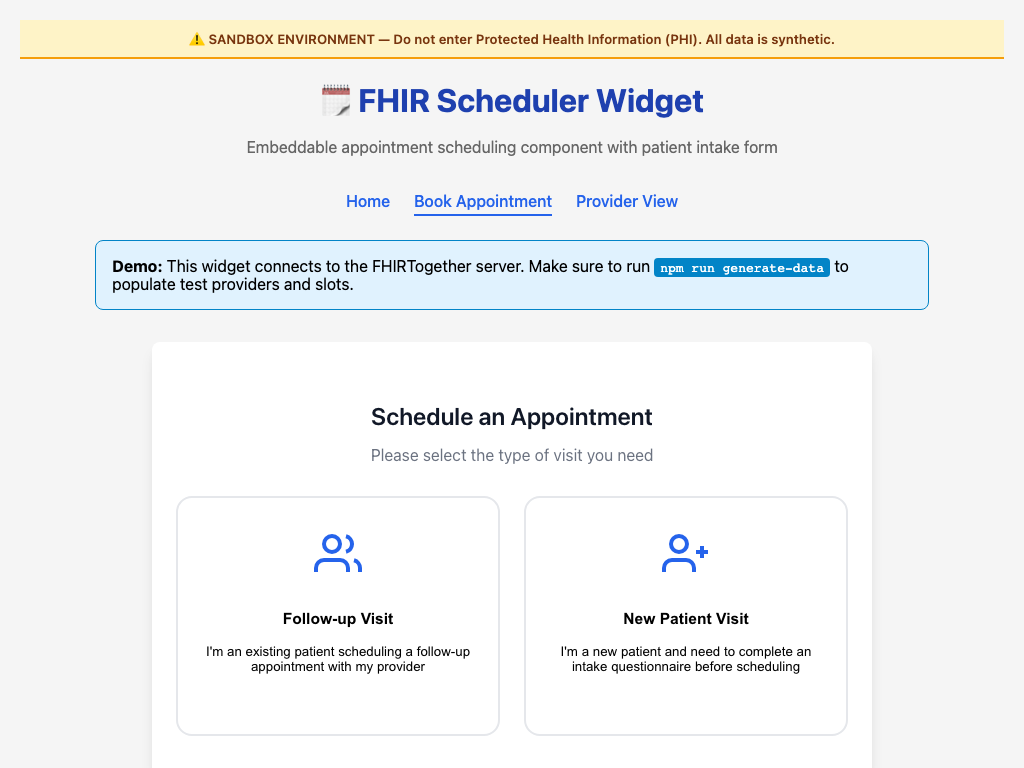
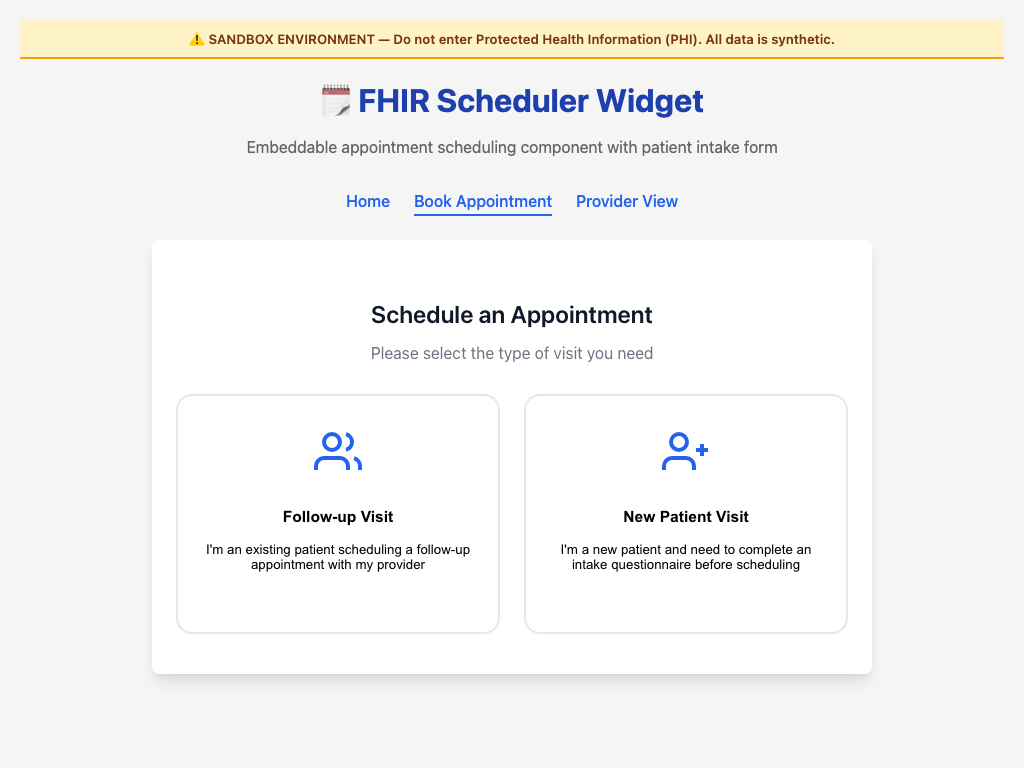
docs: rewrite welcome page and add architecture diagram

diff --git a/public/index.html b/public/index.html
@@ -164,6 +164,30 @@
       font-size: 0.82rem;
       font-weight: 600;
     }
+
+    .welcome-body-text {
+      font-size: 0.92rem;
+      color: var(--mieweb-muted-foreground);
+    }
+
+    .welcome-link {
+      color: var(--mieweb-primary-600);
+    }
+
+    .welcome-code-link {
+      color: inherit;
+      text-decoration: none;
+    }
+
+    .welcome-arch-img {
+      max-width: 100%;
+      height: auto;
+      border-radius: 8px;
+    }
+
+    .welcome-endpoints + .welcome-body-text {
+      margin-top: 0.75rem;
+    }
   </style>
 </head>
 <body>
@@ -200,28 +224,67 @@
       </a>
     </nav>
 
-    <section class="welcome-section" aria-label="Available FHIR endpoints">
-      <h3>FHIR Endpoints</h3>
+    <section class="welcome-section" aria-label="Why FHIRTogether">
+      <h3>Why FHIRTogether?</h3>
+      <p class="welcome-body-text">
+        Healthcare scheduling shouldn&rsquo;t be this hard. Providers, resources, and patients
+        deserve frictionless coordination &mdash; yet most systems still rely on phone calls, fax
+        machines, and proprietary interfaces that don&rsquo;t talk to each other.
+      </p>
+      <p class="welcome-body-text">
+        At <a href="https://bluehive.com" class="welcome-link">BlueHive</a>, our mission is to
+        remove friction from healthcare collaboration. FHIRTogether is our open-source answer to the
+        scheduling interoperability gap: a gateway that speaks both legacy HL7v2 and modern FHIR R4
+        so the right patient reaches the right provider at the right time.
+      </p>
+      <p class="welcome-body-text">
+        Privacy is baked into the architecture. FHIRTogether follows a <strong>trap-door model</strong>
+        for patient data: PHI enters via booking but is <strong>never echoed back</strong> in API
+        responses, provider views, or confirmation screens. Data is stored only long enough to relay
+        to the receiving system &mdash; minimizing the HIPAA blast radius and ensuring FHIRTogether
+        never becomes a system of record for protected health information.
+      </p>
+    </section>
+
+    <section class="welcome-section" aria-label="Architecture overview" style="text-align:center;">
+      <img src="/public/images/architecture.png"
+           alt="FHIRTogether architecture — EHR systems behind the firewall connect through the FHIRTogether Synapse Gateway to the scheduling broker and consumer apps outside the firewall"
+           class="welcome-arch-img" />
+    </section>
+
+    <section class="welcome-section" aria-label="Bridging HL7v2 and FHIR">
+      <h3>Bridging HL7v2 &amp; FHIR Scheduling</h3>
+      <p class="welcome-body-text">
+        If you&rsquo;ve worked with HL7v2, you know <strong>SIU messages</strong> (S12 book, S13
+        reschedule, S15 cancel) handle <em>appointments</em> &mdash; committed time blocks. But
+        HL7v2 has <strong>no standard for publishing availability</strong>. Schedules and open slots
+        are managed outside the wire protocol, buried in each EHR&rsquo;s proprietary configuration.
+      </p>
+      <p class="welcome-body-text">
+        FHIR R4 fills that gap with three resources that model the full scheduling lifecycle:
+      </p>
       <div class="welcome-endpoints">
-        <code>GET /Schedule</code>  <span>Provider schedule &amp; availability management</span>
-        <code>GET /Slot</code>      <span>Time-slot availability queries</span>
-        <code>GET /Appointment</code> <span>Appointment booking &amp; management</span>
-        <code>POST /hl7/siu</code>  <span>HL7v2 SIU message ingestion</span>
-        <code>GET /Directory</code> <span>Public provider directory</span>
-        <code>GET /System</code>    <span>System registration &amp; management</span>
-        <code>POST /Import</code>   <span>Bulk FHIR resource import</span>
-        <code>GET /health</code>    <span>Server health check</span>
+        <code><a href="/docs#/tag/Schedule" class="welcome-code-link">Schedule</a></code> <span>Defines <em>availability</em> for a resource (provider, room, device) &mdash; the piece HL7v2 never had</span>
+        <code><a href="/docs#/tag/Slot" class="welcome-code-link">Slot</a></code>     <span>Individual bookable time windows within a Schedule &mdash; <code>free</code> or <code>busy</code></span>
+        <code><a href="/docs#/tag/Appointment" class="welcome-code-link">Appointment</a></code> <span>A committed booking that consumes a Slot &mdash; the FHIR equivalent of an SIU^S12</span>
       </div>
+      <p class="welcome-body-text">
+        FHIRTogether translates between these worlds: inbound HL7v2 SIU messages become FHIR
+        Appointments, while Schedules and Slots are published via the
+        <a href="https://github.com/smart-on-fhir/smart-scheduling-links/blob/master/specification.md"
+           class="welcome-link">SMART Scheduling Links</a>
+        <code>$bulk-publish</code> endpoint for broad discovery.
+      </p>
     </section>
 
     <section class="welcome-section" aria-label="About this project">
       <h3>About</h3>
-      <p style="font-size:0.92rem; color:var(--mieweb-muted-foreground);">
-        FHIRTogether bridges legacy HL7v2 EHR systems and modern FHIR R4 clients,
-        providing a pluggable scheduling gateway with SQLite-backed storage.
-        It supports Schedule, Slot, and Appointment resources along with HL7v2 SIU
-        message translation &mdash; making it easy to integrate scheduling into any
-        healthcare workflow.
+      <p class="welcome-body-text">
+        FHIRTogether is a FHIR-compliant scheduling gateway with a pluggable SQLite-backed store,
+        embeddable scheduling widget, and built-in HL7v2 SIU message translation. Explore the
+        <a href="/docs" class="welcome-link">API Documentation</a> to see every
+        endpoint, or try the <a href="/demo" class="welcome-link">Scheduler Demo</a>
+        to book an appointment end-to-end.
       </p>
     </section>
   </main>

diff --git a/packages/fhir-scheduler/demo.html b/packages/fhir-scheduler/demo.html
@@ -78,11 +78,6 @@
     <div id="scheduler-container">
       <div id="app"></div>
     </div>
-    
-    <div class="demo-note">
-      <strong>Demo:</strong> This widget connects to the FHIRTogether server at the current origin (localhost:4010 for local development).
-      Make sure to run <code>npm run generate-data</code> to populate test providers and slots.
-    </div>
   </div>
 
   <script src="https://unpkg.com/react@18/umd/react.production.min.js" crossorigin></script>

diff --git a/packages/fhir-scheduler/index.html b/packages/fhir-scheduler/index.html
@@ -90,11 +90,6 @@
     <a href="./provider-view.html">Provider View</a>
   </nav>
 
-  <div class="info-box">
-    <strong>Demo:</strong> This widget connects to the FHIRTogether server. 
-    Make sure to run <code>npm run generate-data</code> to populate test providers and slots.
-  </div>
-
   <div id="scheduler-root">
     <fhir-scheduler id="scheduler" fhir-base-url="" hold-duration="5"></fhir-scheduler>
   </div>

diff --git a/src/auth/apiKeyAuth.ts b/src/auth/apiKeyAuth.ts
@@ -19,6 +19,7 @@ const PUBLIC_PATH_PREFIXES = [
   '/health',
   '/docs',
   '/demo',
+  '/public/',
   '/scheduler/',
   '/Directory',
   '/System/register',

diff --git a/README.md b/README.md
@@ -69,14 +69,25 @@ flowchart LR
 - 🤖 **MCP server** — expose scheduling tools to LLM agents via [Model Context Protocol](MCP_SERVER.md)
 - ⚡ Fastify-based, modern TypeScript stack
 
+<img src="public/images/architecture.png" alt="FHIRTogether architecture — EHR systems behind the firewall connect through the FHIRTogether Synapse Gateway to the scheduling broker and consumer apps outside the firewall" width="800">
+
+<details>
+<summary>Text version of the architecture diagram</summary>
+
 ```mermaid
 flowchart LR
-  A[Legacy EHR]
-  B[FHIRTogether Synapse Gateway]
-  C[Scheduling Broker - BlueHive]
-  D[Users and Provider Apps]
-  E[New System — HL7]
-  F[New System — REST]
+  subgraph internal["🏥 Inside the Firewall"]
+    A[Legacy EHR]
+    E[New System — HL7]
+    F[New System — REST]
+  end
+
+  B[🔗 FHIRTogether Synapse Gateway]
+
+  subgraph external["🌐 Outside the Firewall"]
+    C[Scheduling Broker - BlueHive]
+    D[Users and Provider Apps]
+  end
 
   E -->|SIU with MSH-4/MSH-8 — auto-registers| B
   F -->|POST /System/register — TLS verify| B
@@ -87,7 +98,11 @@ flowchart LR
   D -->|Discover availability and request booking| C
   D -->|GET /Directory — public| B
   C -->|Notifications and confirmations| D
+
+  style internal fill:#fef3c7,stroke:#f59e0b
+  style external fill:#dbeafe,stroke:#3b82f6
 ```
+</details>
 
 ---
 
